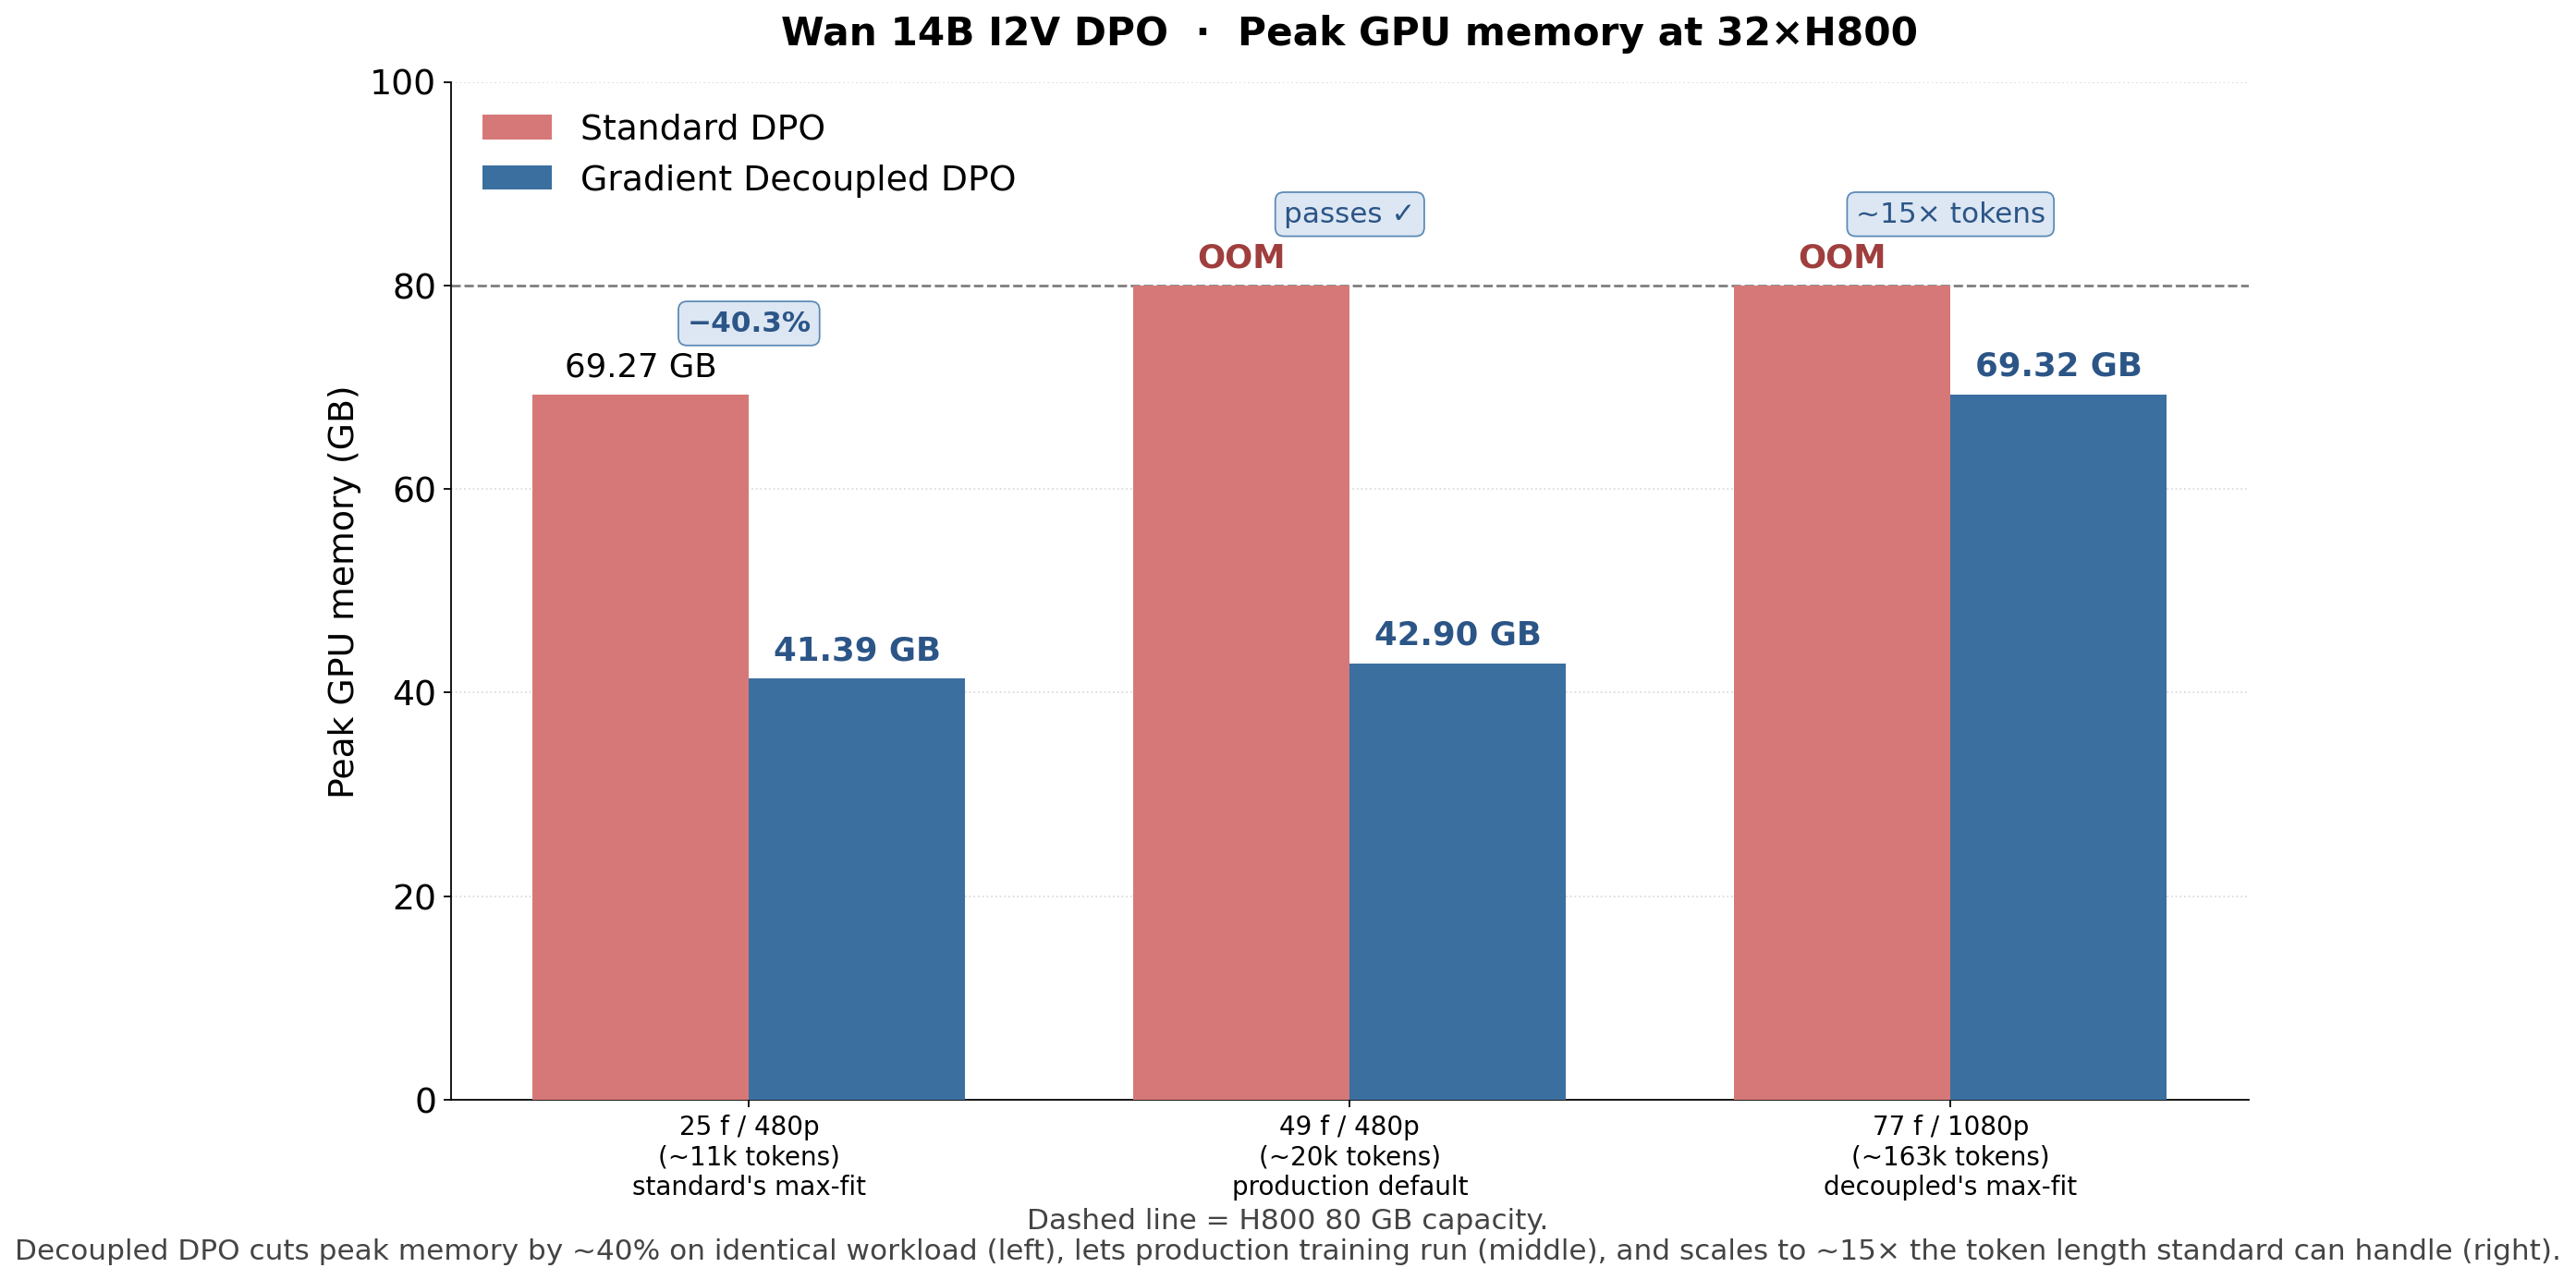
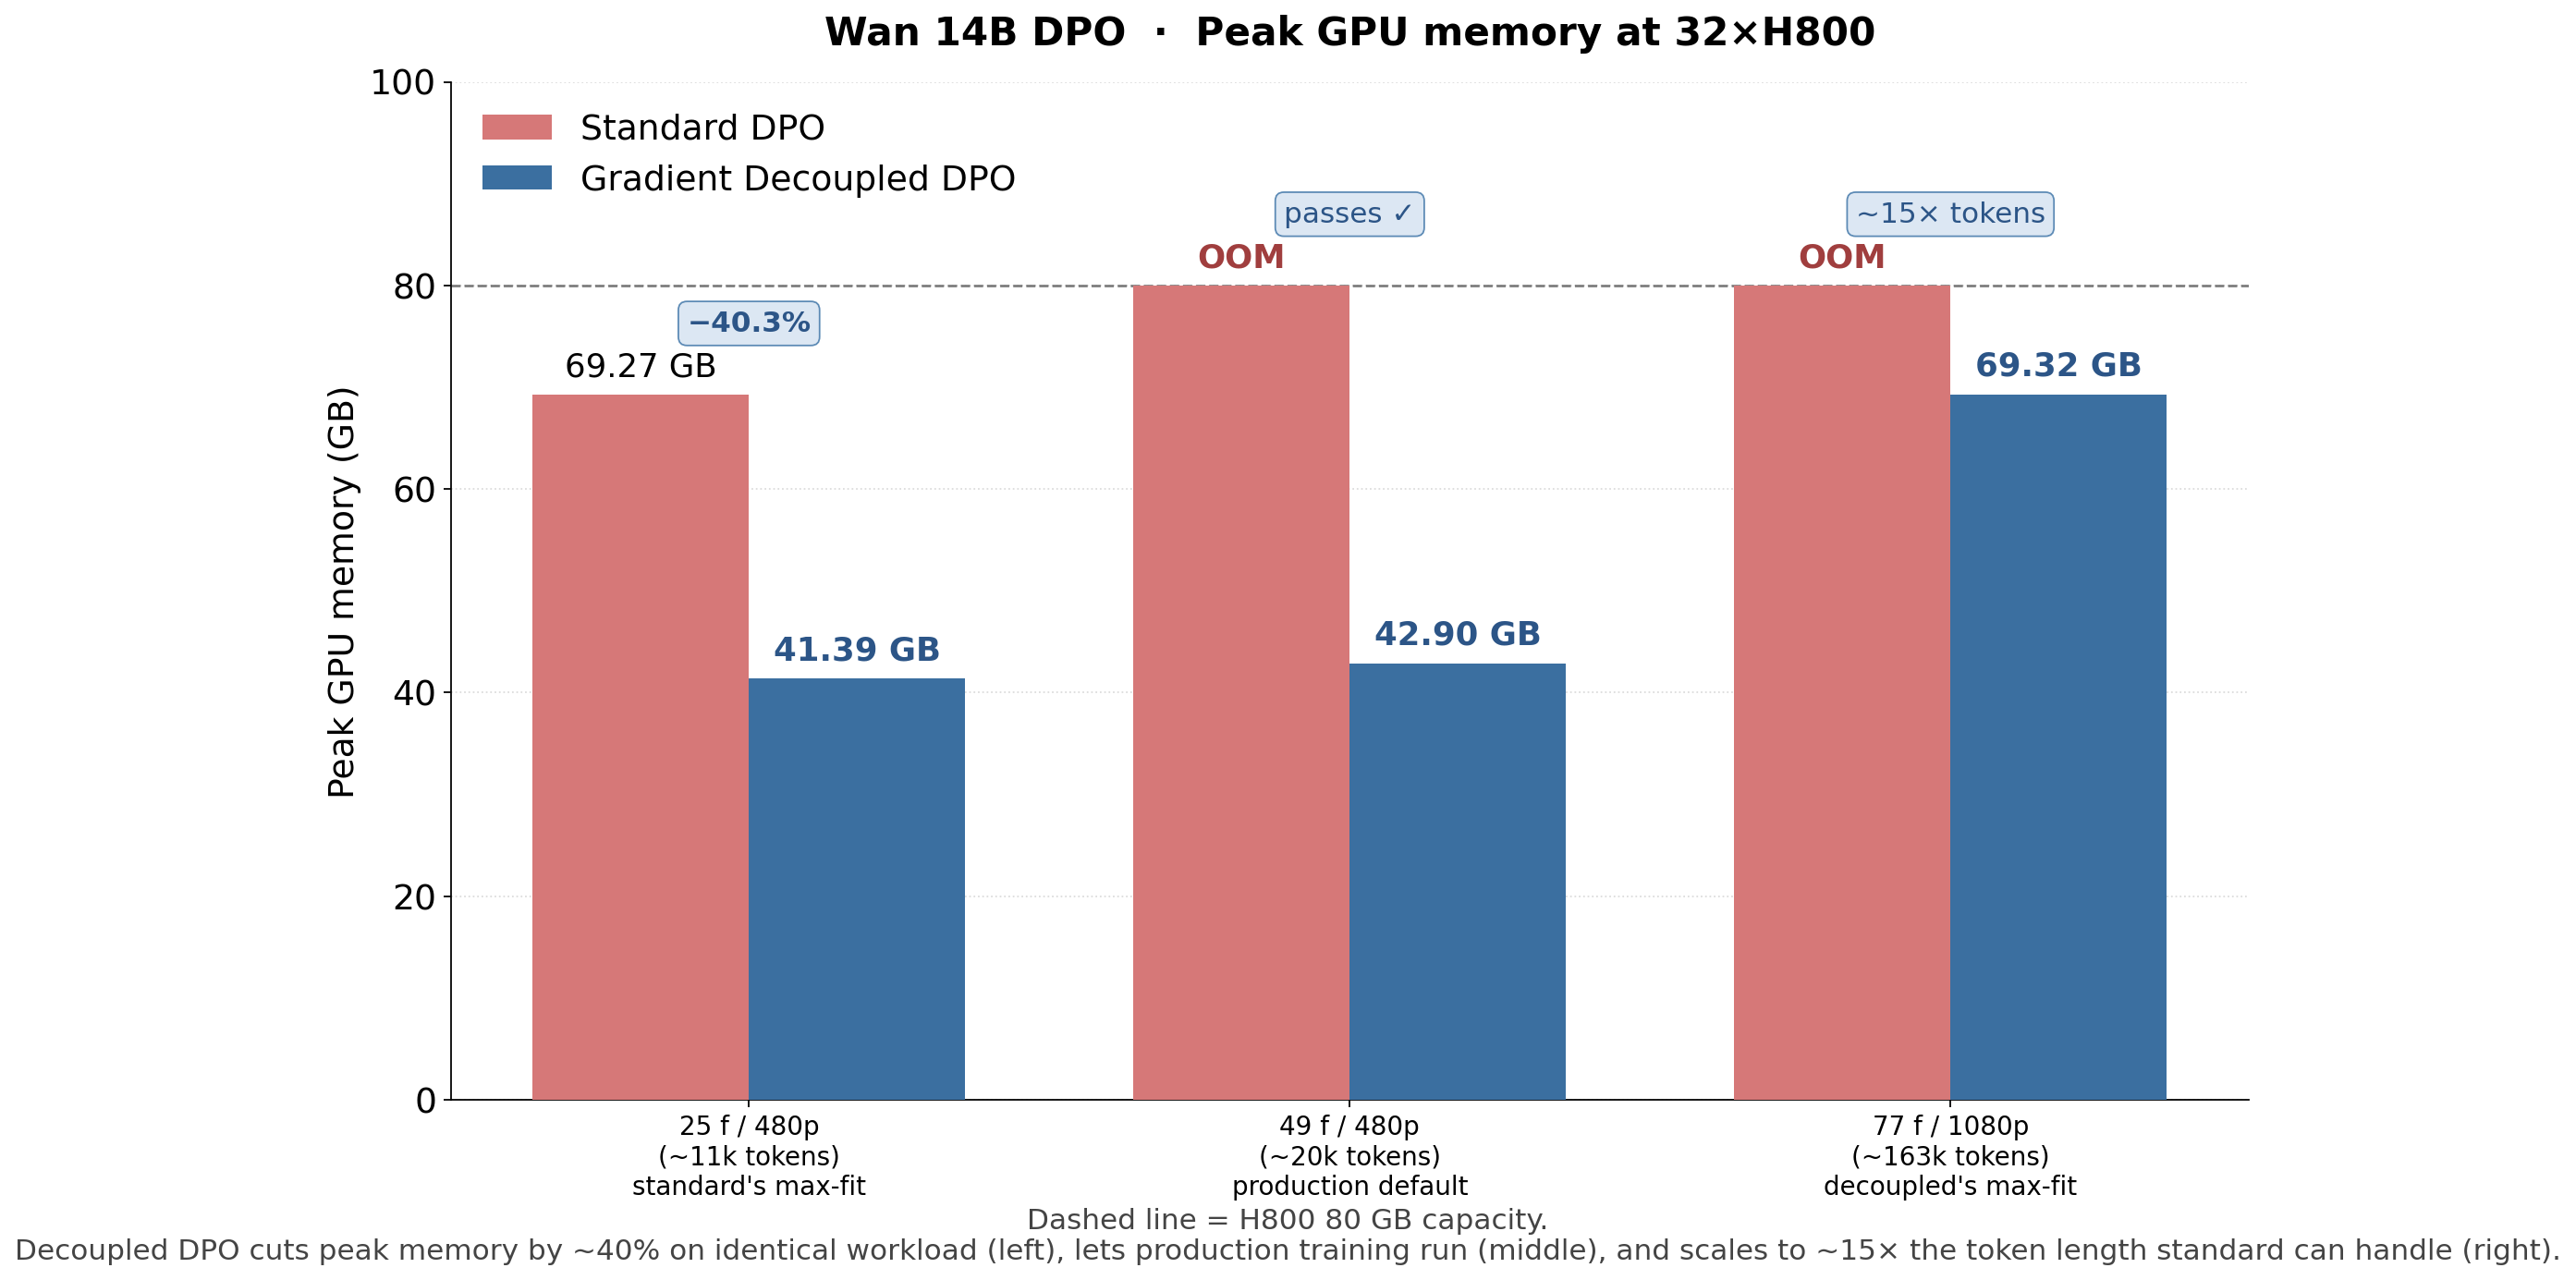
README + figure: model-agnostic framing, drop Supported-models table
* Reframe TeleBoost's Gradient Decoupled DPO as model-agnostic — it
  applies to any diffusion model TeleTron supports (Wan 2.1 / 2.2,
  T2V / I2V, ...). Wan 14B is just the benchmark used to produce the
  numbers, not the only supported model.

* Drop the Supported-models table (Params/dim/heads/layers). It made
  the project look Wan-only; the model-agnostic framing in the intro
  conveys coverage more cleanly.

* Drop the "I2V" qualifier from the figure title and caption — the
  numbers apply to Wan 14B in either T2V or I2V mode (same DiT
  shape).

* Headline-numbers table: replace "qualitative ✅" / "qualitative ·
  ~15× tokens ✅" with "passes ✓" / "~15× tokens" to match the new
  hero-figure badges.

* /workspace/Teletron -> /workspace/TeleBoost in QUICKSTART and the
  README quickstart snippet (left over from the rebrand).

* Drop "n_iters=2 strict" descriptor from the figure caption — the
  iter count is an internal QA detail, not user-facing.

Changed region(s): [[0.2809, 0.0, 0.7492, 0.0621]]

diff --git a/documents/figures/make_figures.py b/documents/figures/make_figures.py
@@ -153,7 +153,7 @@ def fig_memory_vs_layers():
     ax.set_xticklabels(configs, fontsize=12.5)
     ax.set_ylabel("Peak GPU memory (GB)")
     ax.set_ylim(0, 100)
-    ax.set_title("Wan 14B I2V DPO  ·  Peak GPU memory at 32×H800",
+    ax.set_title("Wan 14B DPO  ·  Peak GPU memory at 32×H800",
                  loc="center", pad=18)
     ax.legend(loc="upper left", frameon=False)
     ax.grid(axis="y", ls=":", alpha=0.45, zorder=1)

diff --git a/README.md b/README.md
@@ -13,10 +13,11 @@ Memory-efficient DPO post-training for video diffusion models.
   <a href="https://www.apache.org/licenses/LICENSE-2.0"><img alt="License: Apache 2.0" src="https://img.shields.io/badge/License-Apache%202.0-2196F3?labelColor=555555"></a>
 </p>
 
-TeleBoost is a **post-training framework for video diffusion models**,
-featuring **Gradient Decoupled DPO** — a per-branch backward +
-immediate reduce-scatter pattern that on Wan 14B 40-layer DPO at
-32×H800:
+TeleBoost is a **post-training framework for video diffusion models**.
+Its core feature, **Gradient Decoupled DPO**, is a per-branch backward
++ immediate reduce-scatter pattern that **applies to any diffusion
+model TeleTron supports** (Wan 2.1 / 2.2, T2V / I2V, …). Measured on
+Wan 14B 40-layer DPO at 32×H800:
 
 * **Cuts peak GPU memory by ~40%** on identical workload (69.27 GB → 41.39 GB at 25 f / 480p)
 * **Extends supported context length by ~15×** — Standard DPO max-fits at 25 f / 480p (~11k visual tokens), Decoupled max-fits at 77 f / 1080p (~163k visual tokens) on the same hardware
@@ -32,11 +33,11 @@ long-context multi-modal training framework — together with
 and DeepSpeed ZeRO-2. Production in TeleAI internally for Wan-family training.
 
 <p align="center">
-  <img src="documents/figures/fig_memory_vs_layers.png" alt="Wan 14B I2V DPO peak GPU memory across three configs at 32×H800 multi-node, n_iters=2 strict measurement. Left: at standard's max-fit (25 f / 480p, ~11k tokens), Decoupled cuts peak memory by ~40% on identical workload (69.27 GB → 41.39 GB). Middle: at production default (49 f / 480p, ~20k tokens), standard OOMs while Decoupled finishes at 42.90 GB. Right: at Decoupled's max-fit (77 f / 1080p, ~163k tokens), standard would OOM while Decoupled finishes at 69.32 GB — supporting ~15× longer context than standard." width="820"/>
+  <img src="documents/figures/fig_memory_vs_layers.png" alt="Wan 14B DPO peak GPU memory across three configs at 32×H800 multi-node. Left: at standard's max-fit (25 f / 480p, ~11k tokens), Decoupled cuts peak memory by ~40% on identical workload (69.27 GB → 41.39 GB). Middle: at production default (49 f / 480p, ~20k tokens), standard OOMs while Decoupled finishes at 42.90 GB. Right: at Decoupled's max-fit (77 f / 1080p, ~163k tokens), standard would OOM while Decoupled finishes at 69.32 GB — supporting ~15× longer context than standard." width="820"/>
 </p>
 
 <p align="center"><sub><i>
-Wan 14B I2V DPO, 40 layers, bf16 + ZeRO-2 + recompute=full + flash-attn 3, 32×H800, n_iters=2 strict.
+Wan 14B DPO, 40 layers, bf16 + ZeRO-2 + recompute=full + flash-attn 3, 32×H800.
 <b>Left</b>: same workload, ~40% memory cut. <b>Middle</b>: production default, standard OOMs and Decoupled fits. <b>Right</b>: Decoupled scales to ~15× longer context than standard.
 </i></sub></p>
 
@@ -47,8 +48,8 @@ Wan 14B I2V DPO, 40 layers, bf16 + ZeRO-2 + recompute=full + flash-attn 3, 32×H
 | Setting | Visual tokens | Standard DPO | **Gradient Decoupled DPO** | Δ |
 |---|---|---|---|---|
 | 25 f / 480p — *standard's max-fit* | ~11 k | 69.27 GB ✓ | **41.39 GB ✓** | **−40.3%** |
-| **49 f / 480p — *production default*** | **~20 k** | **❌ OOM** | **42.90 GB ✓** | **qualitative** ✅ |
-| 77 f / 1080p — *decoupled's max-fit* | ~163 k | ❌ OOM | **69.32 GB ✓** | **qualitative · ~15× tokens** ✅ |
+| **49 f / 480p — *production default*** | **~20 k** | **❌ OOM** | **42.90 GB ✓** | **passes ✓** |
+| 77 f / 1080p — *decoupled's max-fit* | ~163 k | ❌ OOM | **69.32 GB ✓** | **~15× tokens** |
 
 Three concrete wins on the same 32-GPU H800 hardware:
 1. **−40% peak memory on identical workload** (25 f / 480p ~11 k tokens)
@@ -105,12 +106,12 @@ docker build -t teleboost:mc0.16.1 .
 
 # 2. Run on 8 H100 / H200 / H800
 docker run -it --gpus all --shm-size 512G \
-    -v $(pwd):/workspace/Teletron \
+    -v $(pwd):/workspace/TeleBoost \
     -v /path/to/your/data:/data \
     teleboost:mc0.16.1
 
 # 3. Smoke test inside the container
-cd /workspace/Teletron
+cd /workspace/TeleBoost
 torchrun --nproc_per_node=8 examples/wan/pretrain_wan2_2.py \
     --dataset-type FakeDataset --bf16 --use-zero2 ...
 # (full args in QUICKSTART.md)
@@ -161,18 +162,6 @@ own dataset — see QUICKSTART for the 30-line template.
 
 Constraint: `(TP × CP)` must divide `num_attention_heads`. For Wan 14B
 (40 heads), valid CP×TP combos are 1, 2, 4, 5, 8, 10, 20, 40.
-
----
-
-## Supported models
-
-| Model | Params | dim | heads | layers |
-|---|---|---|---|---|
-| Wan2.1 / Wan2.2 (T2V/I2V) | 14B | 5120 | 40 | 40 |
-| Wan2.1 1.3B | 1.3B | 1536 | 12 | 30 |
-
-Production focus is **Wan 14B I2V DPO** (`examples/teleai/`); other
-variants live under `examples/wan/`.
 
 ---
 

diff --git a/QUICKSTART.md b/QUICKSTART.md
@@ -64,12 +64,12 @@ What's inside (verified ABI-aligned):
 
 ```bash
 docker run -it --rm --gpus all --shm-size 512G --network host \
-  -v $(pwd):/workspace/Teletron \
+  -v $(pwd):/workspace/TeleBoost \
   -v /your/data/dir:/data \
   teleboost:mc0.16.1 zsh
 
 # inside the container:
-cd /workspace/Teletron
+cd /workspace/TeleBoost
 nvidia-smi  # confirm 8 GPUs visible
 ```
 
@@ -85,7 +85,7 @@ The fastest way to confirm the full stack works on this hardware:
 
 ```bash
 # Inside the container
-cd /workspace/Teletron
+cd /workspace/TeleBoost
 
 # Build the bench fixture (one-time; saves ~5 MB to /tmp/wan_inputs.pt)
 python3 -c "